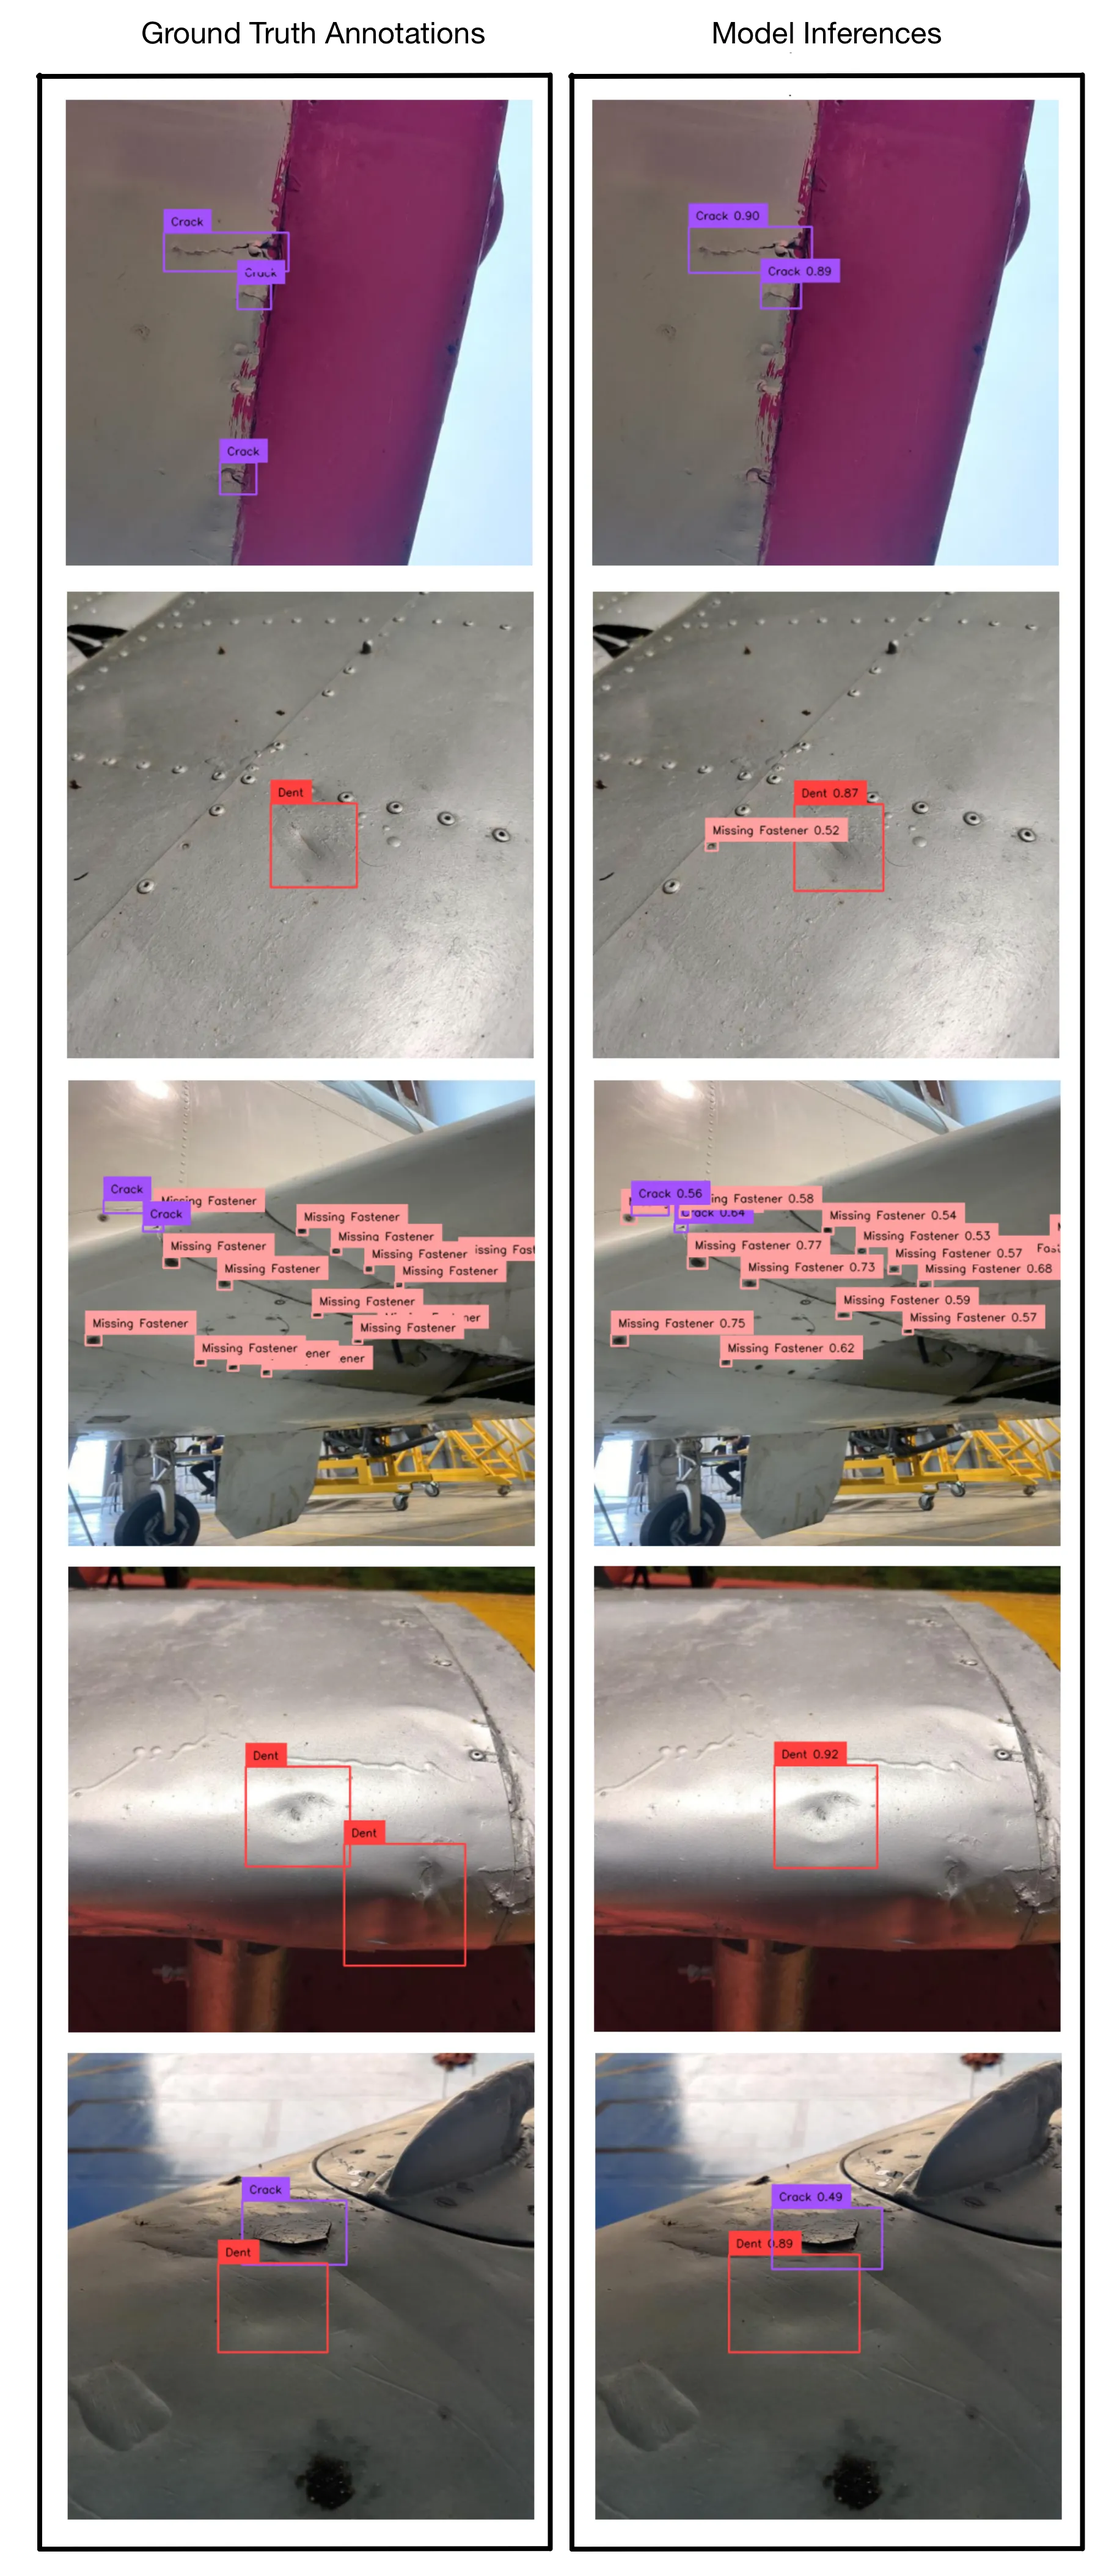
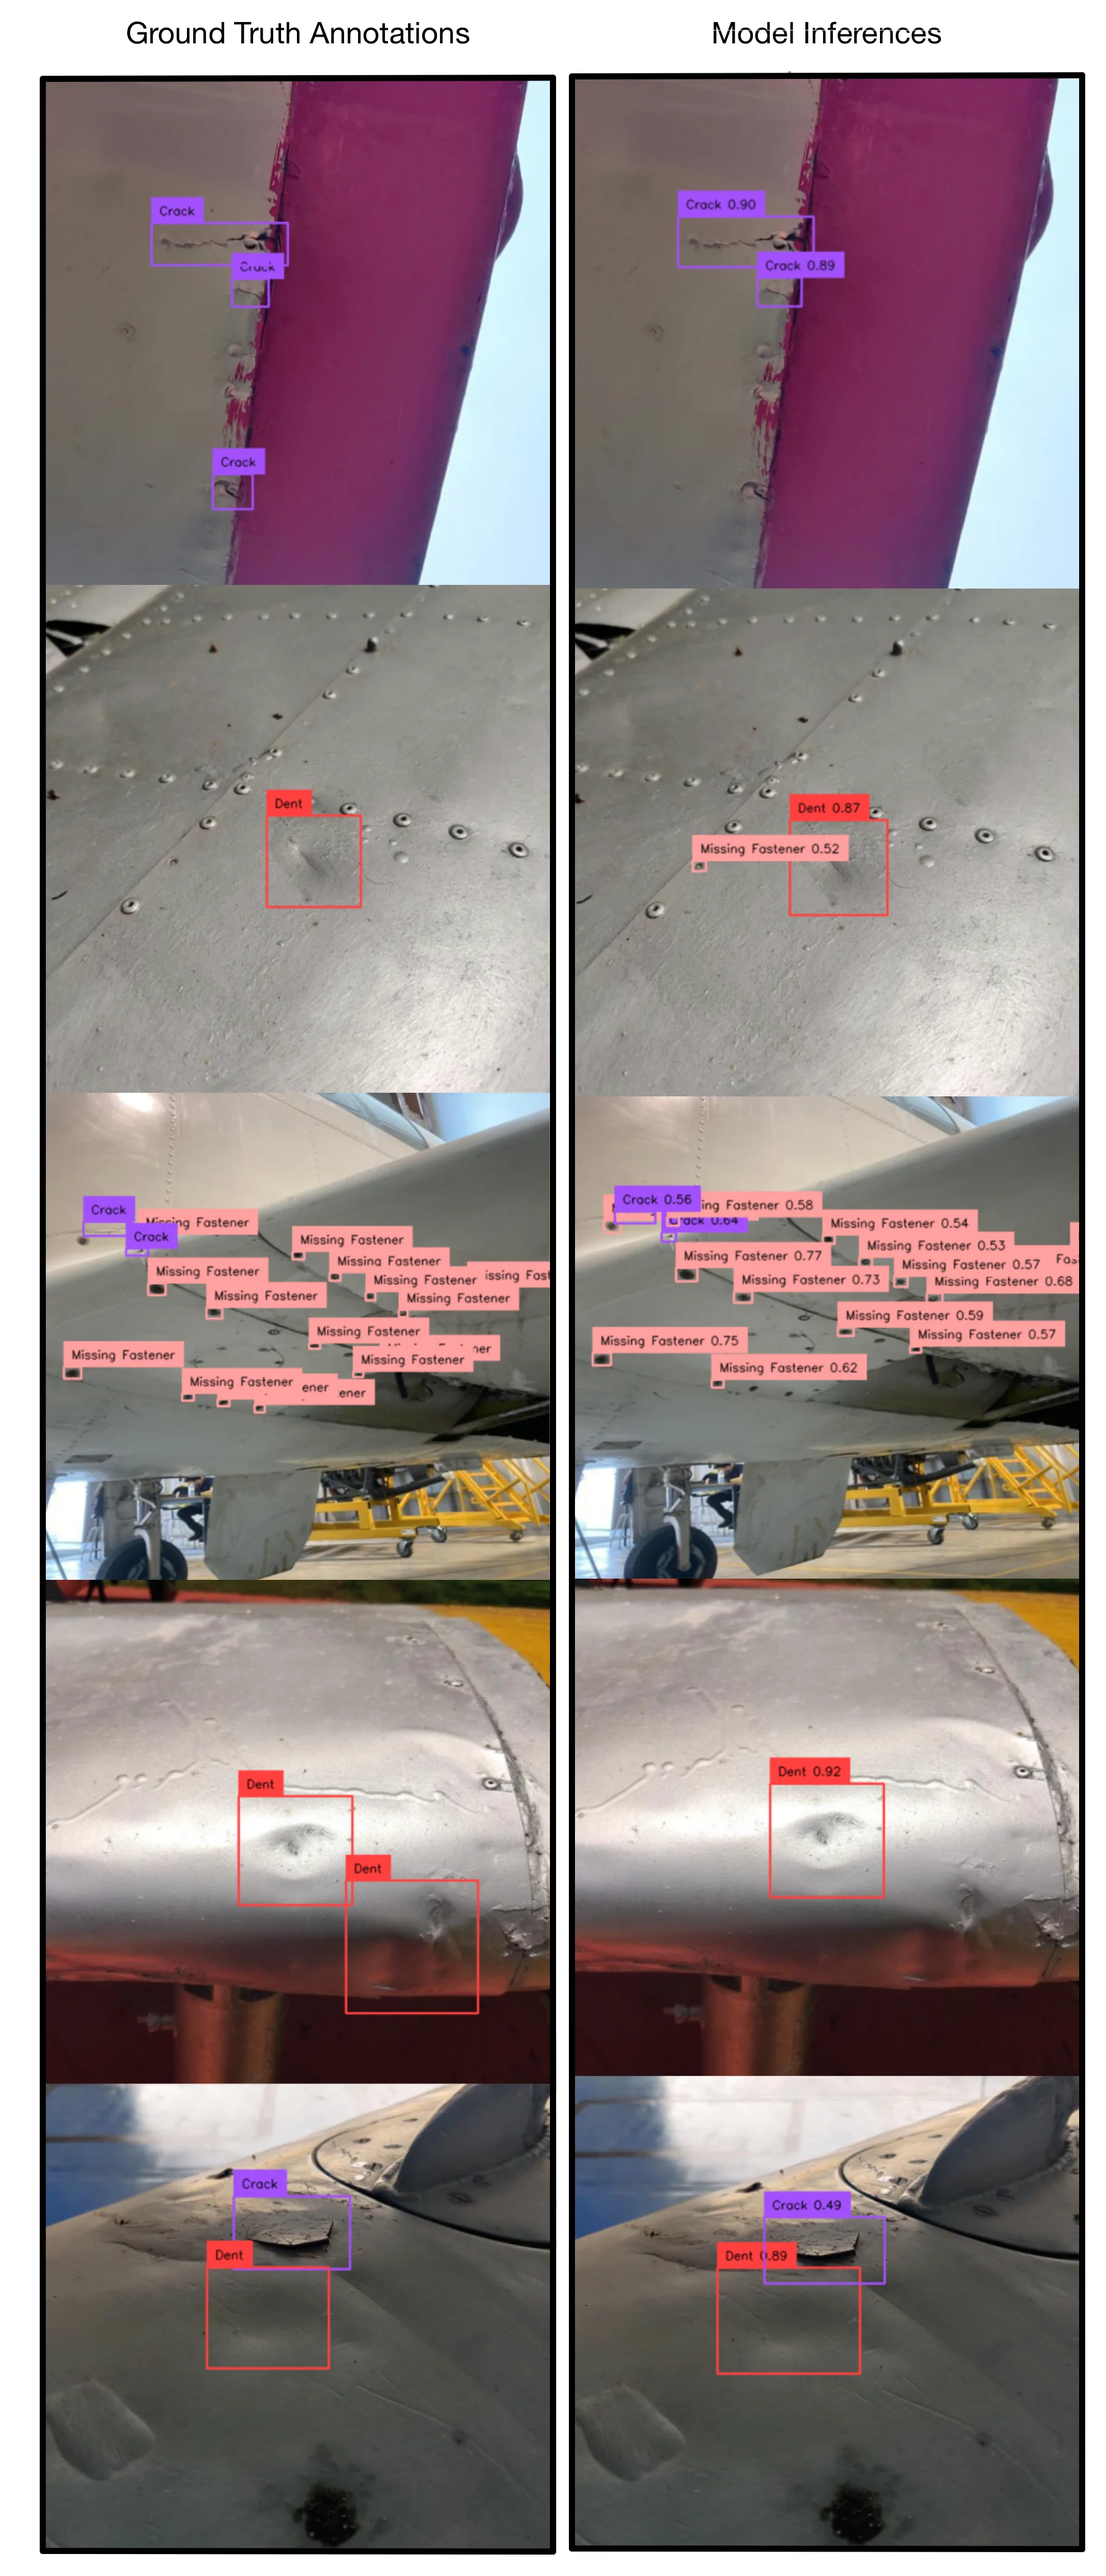
Enhance AAVI.html and CSS: Improved text formatting for project descriptions with bold headings, added dark theme support for table headers and rows, and updated caption styles. Updated Inference Examples.webp image for better visual representation.

diff --git a/capstone/AAVI.html b/capstone/AAVI.html
@@ -209,14 +209,16 @@
 										<div class="caption">AAVI System Diagram</div>
 									</div>
 
-									1. Data Acquisition Network (DAN) The DAN employs a hybrid solution of drones and stationary
+									<strong>1. Data Acquisition Network (DAN)</strong><br />
+									The DAN employs a hybrid solution of drones and stationary
 									cameras to ensure thorough visual coverage of aircraft, even in challenging inspection areas.
 									Unmanned Aerial Vehicles (UAVs), such as DJI Matrice drones, scan the external and upper
 									surfaces, while stationary cameras focus on intricate areas like undercarriages and landing
 									gear. Images captured by the DAN are streamed in real-time for processing.
 									<br /><br />
 
-									2. Data Analysis and Sharing Hub (DASH) Captured image data is routed to DASH, which uses DCNN
+									<strong>2. Data Analysis and Sharing Hub (DASH) </strong><br> 
+									Captured image data is routed to DASH, which uses DCNN
 									models for defect detection. The first model performs Defect Detection in Real-Time (DDRT),
 									designed for speed and edge-device efficiency, such as GPU-enabled platforms. This is critical
 									for providing actionable insights within the 20–40 minute window between flights. The second
@@ -378,14 +380,14 @@
 												<td>0.8467</td> <!-- NAS -->
 												<td>0.840</td> <!-- v9 -->
 											</tr>
-											<tr></tr>
+											<tr>
 												<td>F2(50)</td> <!-- Metric  -->
 												<td>0.78</td> <!-- v5  -->
 												<td>0.8014</td> <!-- v8  -->
 												<td><strong>0.8209</strong></td> <!-- NAS -->
 												<td>0.8053</td> <!-- v9 -->
 											</tr>
-											<tr></tr> <!-- FPS -->
+											<tr> <!-- FPS -->
 												<td>FPS (FP16)</td> <!-- Metric  -->
 												<td>131.06</td> <!-- v5  -->
 												<td><strong>136.71</strong></td> <!-- v8  -->
@@ -405,7 +407,7 @@
 									Latency tests demonstrated the model’s viability for real-time deployment. On an NVIDIA T4
 									GPU, inference latency was 10.15 ms or 98.52 frames per second using FP16
 									quantization.
-									<br />
+									<br /><br />
 
 		
 

diff --git a/css/myPortfolio.css b/css/myPortfolio.css
@@ -160,9 +160,18 @@ th {
 	background-color: #f2f2f2; /* Light gray background for headers */
 }
 
+[data-theme="dark"] th {
+	background-color: #909090; /* Dark gray for headings */
+	color: white; /* White text for headings */
+}
+
 /* Optional: Add some spacing between rows */
 tr:nth-child(even) {
 	background-color: #f9f9f9; /* Light background for even rows */
+}
+
+[data-theme="dark"] tr:nth-child(even) {
+	background-color: #333; /* Light background for even rows */
 }
 
 /* CHAT GPT FIT NORWAY IMAGE */
@@ -2637,6 +2646,10 @@ body {
 	margin-top: 5px; /* Space above the caption */
 	margin-bottom: 15px; /* Space below the caption */
 	font-style: italic; /* Optional: italicize the caption */
+}
+
+[data-theme="dark"] .caption {
+	color: #f2f2f2; /* Use a color that fits your design */
 }
 
 .main-content-container {
